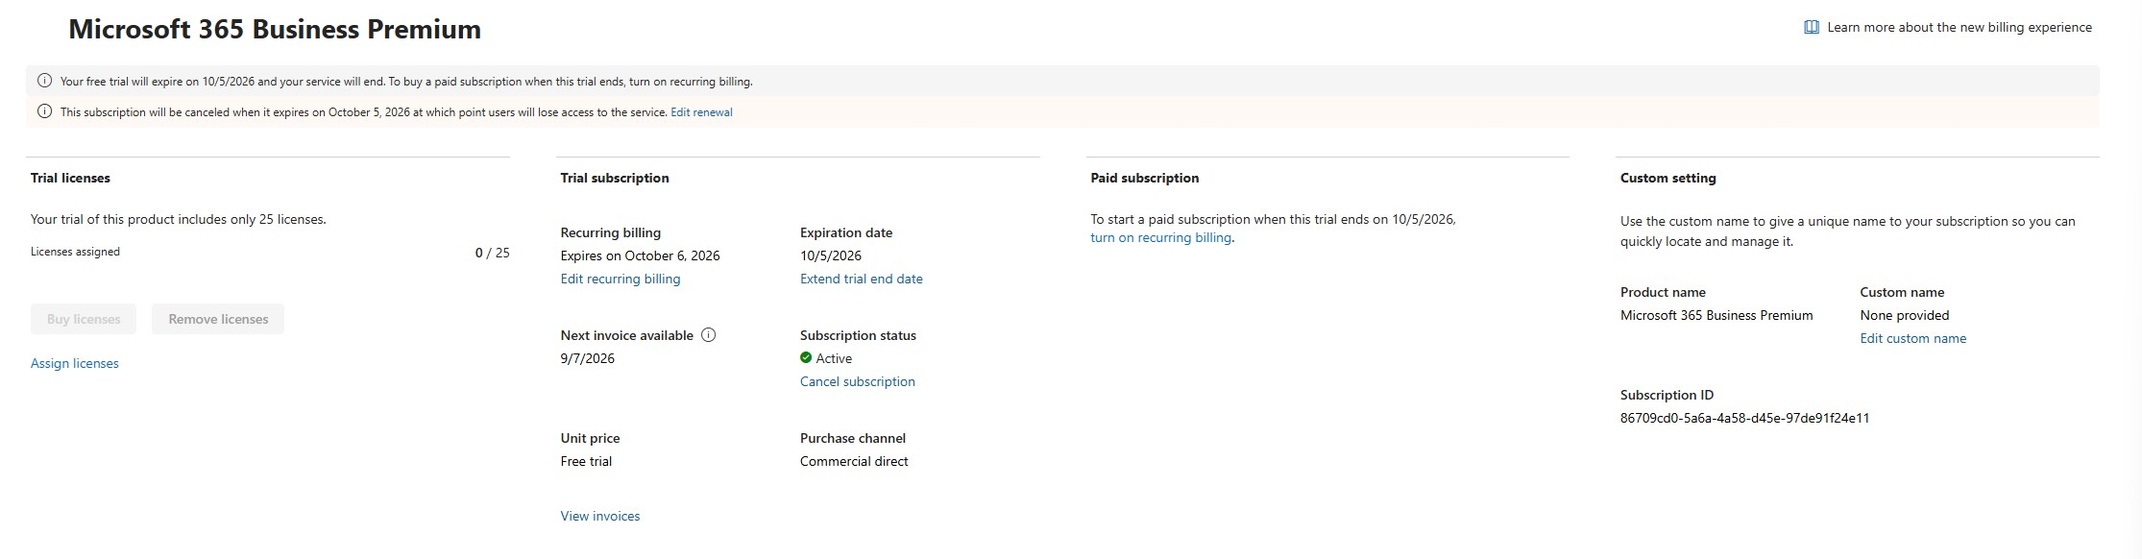
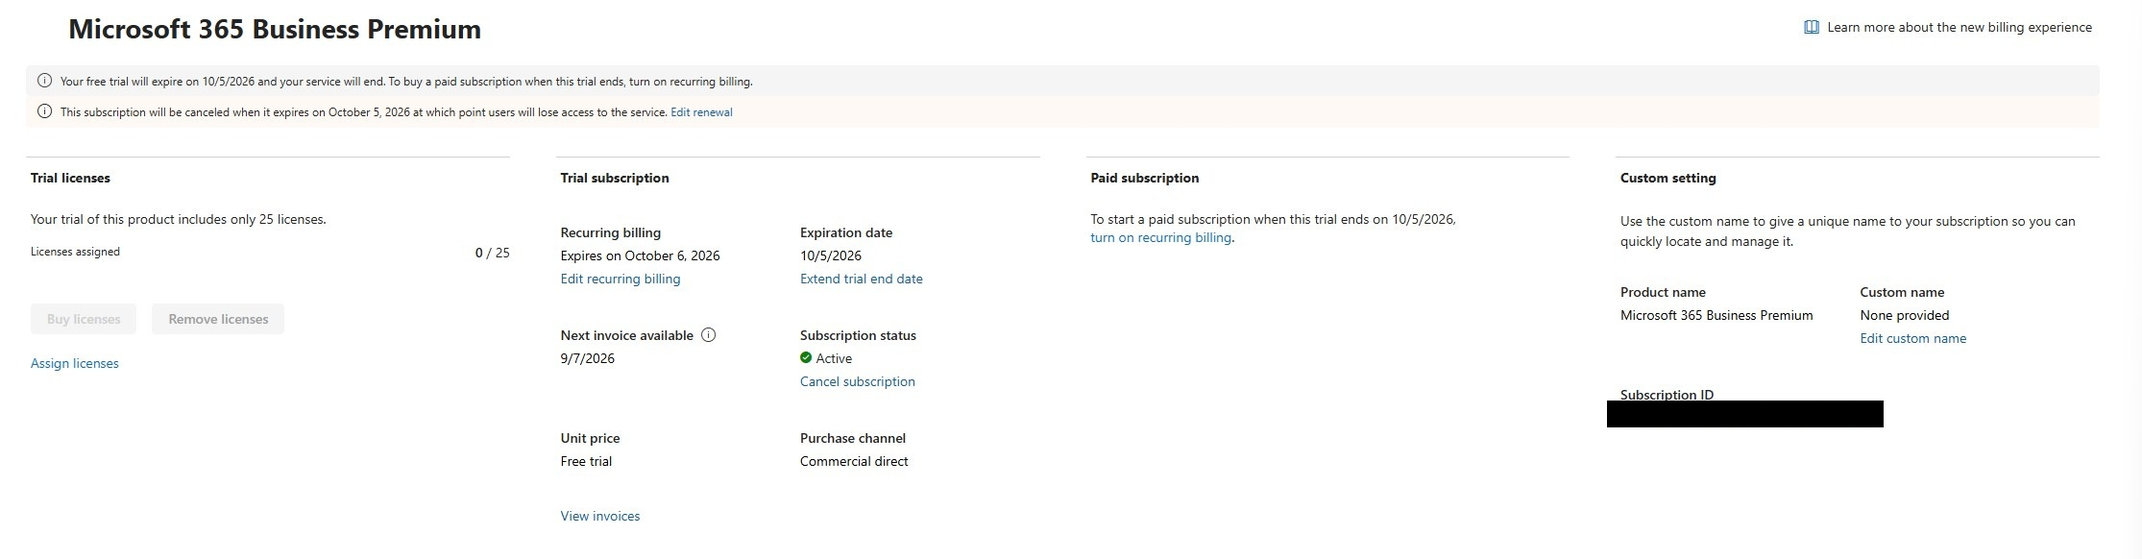
docs(cloud-03): document Step Twelve, and apply the identifier redaction policy consistently across Lab 03

Changed region(s): [[0.7426, 0.7113, 0.8973, 0.7732]]

diff --git a/docs/cloud-and-hybrid-identity/03-entra-id-user-group-and-license-administration.md b/docs/cloud-and-hybrid-identity/03-entra-id-user-group-and-license-administration.md
@@ -997,23 +997,105 @@ From the 1:17:00 AM on-premises write to the 1:22:01 AM cloud-side export comple
 
 **Restoration, confirmed rather than assumed.** `mjohnson` ended this step a member of exactly `Domain-Users-Standard` and `IT-Admins` again (the `All Company` test membership removed), `Account enabled: Yes`, and UPN back at `mjohnson@brindeck.com`; her Job title stayed set to `IT Support Specialist` as deliberate content. `cloudonly-demo01` had its test Job title cleared back to blank, and a fresh read confirmed the hard constraint: Groups blade reading "Not a member of any groups" and Assigned roles reading "No directory roles assigned.", license-only exactly as it started, with `memberOf` empty as required.
 
-### Step Twelve: Validate the environment is otherwise unchanged, settle the SSO key, and record the finished state
+### Step Twelve: Validated the environment is otherwise unchanged, settled the SSO key, and recorded the finished state
 
-Confirm that a lab conducted almost entirely in two web portals left the on-premises environment exactly as it found it, and record the state Lab 04 starts from.
+Confirmed that a lab conducted almost entirely in two web portals left the on-premises environment exactly as it found it, and recorded the state Lab 04 starts from.
 
-**On-premises and synchronization.** `Test-ComputerSecureChannel` from WIN11-CLIENT01, a Group Policy result confirming `IT-Admin-Environment` still applies, `sssd` active on Ubuntu Server with a Kerberos ticket issued for a domain user. On `SYNC01`: the Entra Connect version and source anchor unchanged, and `Get-ADSyncScheduler` read before running anything capable of forcing a cycle, so the scheduler is confirmed rather than assumed, which is the discipline Lab 02 Step Nine established after finding `SyncCycleEnabled` had been `False` since installation.
+**Drift check, run before anything else.** `mjohnson`'s Overview, Job Information, and Groups tabs matched Step Eleven's Restoration paragraph exactly: UPN back at `mjohnson@brindeck.com`, `Account enabled: Yes`, Job title `IT Support Specialist`, and membership in exactly `Domain-Users-Standard` and `IT-Admins`.
 
-**Wazuh, with the known caveat applied rather than repeated.** `Get-LabWazuhAgentStatus.ps1`'s default `-AgentName` list is `DC01`, `WIN11-CLIENT01`, and `UBUNTU-SERVER`, written during Automation Lab 05 before `SYNC01` existed. Running `Invoke-LabHealthReport.ps1` unmodified therefore returns `WazuhAgentStatus: Healthy` without having checked the one host this track's synchronization depends on, exactly as it did in Lab 02. Run the health report for the overall picture, then call `Get-LabWazuhAgentStatus -AgentName DC01,WIN11-CLIENT01,UBUNTU-SERVER,SYNC01` explicitly, and record both results together with the reason they differ. A green result that covered a real gap is precisely the failure shape Linux Lab 06's revision documented, and reporting the unmodified `Healthy` on its own would repeat a defect this repository has already identified twice.
+<p align="center">
+  <img src="../../images/cloud-and-hybrid-identity/03-entra-id-user-group-and-license-administration/44-mjohnson-groups-membership-restoration-confirmed.jpg" alt="44-mjohnson-groups-membership-restoration-confirmed" width="700">
+</p>
 
-**Automation library.** `Invoke-Pester -Path C:\Scripts -Output Detailed`, expected at 174 tests, 0 failed, unchanged since no script is touched by this lab.
+<p align="center">
+  <em>mjohnson's Groups blade: exactly Domain-Users-Standard and IT-Admins, both group object IDs masked.</em>
+</p>
 
-**The `AZUREADSSOACC` key.** Step One already read the account's state and recorded how long it had been since Lab 02's roll. Lab 02 rolled the key on 2026-08-31, during its Step Eight-A (the same timestamp Step One read directly from `PasswordLastSet`), and Microsoft's Seamless SSO FAQ recommendation of at least every thirty days puts that threshold at 2026-09-30. (WIN11-CLIENT01 displays `PasswordLastSet` in its local Eastern time zone; the same moment in UTC is 2026-09-01 00:07, which is why the interval also reads as 2026-09-01 to 2026-10-01 on a UTC clock; one rollover, two clocks, not a discrepancy.) A roll performed in this lab falls well short of either date, so it demonstrates the procedure rather than tests the recommendation the threshold represents. Re-read the account's state now, so the elapsed time spans the lab rather than sitting at its start, then take the decision and record it either way: roll the key with `Update-AzureADSSOForest` on `SYNC01`, observing the two documented traps and expecting the authentication context to fight the same browser configuration Lab 02 recorded, or record the deliberate decision not to roll it and the reasoning. Whichever happens, state the conclusion research pointed to and the lab confirmed: whether thirty days is an expiry or a recommendation, and therefore whether this is an operational deadline the environment has to meet or a hygiene interval it should aim at, while 2026-09-30 (2026-10-01 in UTC) remains the date a later lab actually gets to watch the interval elapse and settle the question empirically. That closes the Lab 02 carry-forward item rather than restating it, and it tells Lab 06 whether it is automating a deadline or a good habit.
+`cloudonly-demo01` matched too: zero group memberships, zero assigned roles, one assigned license (SPB), Job title cleared back to blank.
 
-**Finished state.** Reconcile both directories object by object against the Step One baseline, accounting for every difference. Three categories of change are expected and must each be accounted for rather than netted away: the cloud-only groups created in Step Six and the role-assignable group created in Step Seven, which persist; the `department` values populated on the synchronized users in Step Six (`akim`, `jdoe`, `testuser01`, and `tsync01` at `IT`; `mjohnson` at `Sales`; `jsmith` at `IT`, changed from `Sales` mid-step) and the `title` value populated on `mjohnson` in Step Eleven, the only two attribute changes this lab makes on-premises; and `deltest01`, created and permanently destroyed in Step Nine, which nets to zero on both sides exactly as Step Nine already confirmed: six users on-premises and ten in the tenant, matching the Step One baseline with no residual discrepancy. Getting there cost two distinct Entra object GUIDs along the way, not a persistent count, the direct consequence of recreating a synchronized account with the Recycle Bin off, a finding Step Nine already made and this step does not need to re-derive. Record the finished licensing state: which subscriptions are active, their billing state, the trial's expiry date, how many licenses are assigned and to whom, and by which model each was assigned. Record the Business Basic trial as resolved, lapsing 2026-09-22, so the track's dated item closes here.
+<p align="center">
+  <img src="../../images/cloud-and-hybrid-identity/03-entra-id-user-group-and-license-administration/45-cloudonly-demo01-overview-license-only-restoration-confirmed.jpg" alt="45-cloudonly-demo01-overview-license-only-restoration-confirmed" width="700">
+</p>
 
-The reconciliation must also account for what the Entra Overview's user count cannot show: three objects sitting in Deleted users, invisible to that count entirely. Record them by name, not as a tally: `nolocation-demo01`, soft-deleted 2026-09-07 by Step Eight with its group-inherited licenses confirmed still attached; and `duptest01` and `duptest02`, soft-deleted by Lab 02 and still present, their thirty-day windows expiring around 2026-10-02. A reconciliation that reads only the active user count and calls it a match is the same shape of error Step Nine found in Lab 02's own reconciliation: complete against one view, silent about another. Take an actual decision on `duptest01` and `duptest02` rather than defaulting past them: either purge them permanently, which would make Lab 02's "left no residue" claim true at last, or leave all three objects for Labs 04 and 05 to inherit. State which and why.
+<p align="center">
+  <em>cloudonly-demo01's Overview: Group memberships 0, Applications 0, Assigned roles 0, Assigned licenses 1, object ID masked.</em>
+</p>
 
-The same blind spot applies on the groups side. `Testgroup` sits in Deleted groups throughout this lab, soft-deleted 9/6/2026 5:08:17 PM with a permanent deletion date of 10/6/2026 5:08:17 PM, predating this lab entirely and untouched by it. Part B names it twice, as what Deleted groups returns to holding after both the restore and the final permanent-delete, but no step in this lab accounts for what it actually is or takes a decision on it. Step Nine's standard applies here exactly as it does to `duptest01` and `duptest02`: a reconciliation complete against one view and silent about another is the error this lab is built to avoid repeating. Take an actual decision on `Testgroup` the same way: either restore it, purge it permanently, or leave it for Labs 04 and 05 to inherit alongside the other three objects, and state which and why.
+A fresh `Get-MgSubscribedSku` read reconfirmed Part C's figures unchanged: SPB (Business Premium) at 6 consumed units and Microsoft 365 Business Basic (no Teams) at 1, both `Enabled`, and the Business Premium product page still read 7 of 25 assigned. No drift on either front, so this step proceeded from Step Eleven's and Step Ten's own baselines rather than a re-derived one.
+
+**On-premises and synchronization.** `Test-ComputerSecureChannel` from WIN11-CLIENT01 returned `True`. A first pass at the Group Policy result, `gpresult /r /scope:computer`, showed only `Workstation-Security-Baseline` and `Default Domain Policy`, no `IT-Admin-Environment` and briefly read as drift. It was an instrument gotcha instead: `IT-Admin-Environment` is a User Configuration policy security-filtered to `IT-Admins` membership, so a computer-scoped result can never show it regardless of whether it applies. A full `gpresult /r` for `CORP\labadmin`, a member of `IT-Admins` sitting in `OU=IT`, confirmed it correctly under User Settings.
+
+`sssd` was `active (running)` on Ubuntu Server, but the cached `klist` ticket was seven days expired, `testuser01@CORP.HOME.ARPA` valid `09/03/2026 13:15:55` to `09/03/2026 23:15:55`, left over from the day the service last started rather than a currently valid ticket. A fresh `kinit testuser01@CORP.HOME.ARPA` produced a ticket correctly bracketing the current time. Both this stale ticket and a nine-second `sssd_be` offline/online pair logged at the moment of testing traced to the same cause: the VM had been suspended between lab sessions and had only just been resumed for this step, not a genuine connectivity fault.
+
+`SYNC01` had been suspended the same way, and it surfaced this step's most substantial finding. `Get-ADSyncScheduler` read `SyncCycleEnabled: True` and `SchedulerSuspended: False`, but `NextSyncCycleStartTimeInUTC` at `9/9/2026 3:31:00 PM`, two days stale, and the Synchronization Service Manager's Operations tab confirmed no cycle had actually run since then either, 1,374 runs total, all `success`. The `ADSync` service itself was `Running`, and the Windows Application event log showed it actively acquiring MSAL tokens against `AdminWebService` moments before the check, alive but evidently not re-arming its own scheduler after the suspend. No Task Scheduler entry matched `ADSync` or `Azure AD Sync` (only an unrelated `TouchpadSyncDataAvailable` task matched the name filter), confirming the scheduler runs as an in-process timer inside the `ADSync` service rather than as an external scheduled task. `Restart-Service ADSync` did not correct it: `Get-ADSyncScheduler` still read `9/9/2026 3:31:00 PM` a full three minutes later. A full VM restart did: the next read gave `NextSyncCycleStartTimeInUTC: 9/11/2026 11:23:27 PM`, roughly the correct half hour out, nothing suspended. No cycle was ever forced manually at any point in this sequence, consistent with the discipline Lab 02 Step Nine established around this exact cmdlet. Nothing was actually missed by the roughly two-day gap: no lab work ran against either directory while `SYNC01` sat suspended, so there was no on-premises change waiting to synchronize when the scheduler finally caught up. This is recorded as a carry-forward item for this track's close-out to propagate into the `README`: any future session that resumes a suspended `SYNC01` should expect the identical stale scheduler, and know in advance that a service restart will not correct it where a full VM restart will.
+
+<p align="center">
+  <img src="../../images/cloud-and-hybrid-identity/03-entra-id-user-group-and-license-administration/46-adsyncscheduler-next-cycle-corrected-after-vm-restart.jpg" alt="46-adsyncscheduler-next-cycle-corrected-after-vm-restart" width="700">
+</p>
+
+<p align="center">
+  <em>Get-ADSyncScheduler after the SYNC01 VM restart: NextSyncCycleStartTimeInUTC recalculated to 9/11/2026 11:23:27 PM, SyncCycleInProgress False, nothing suspended.</em>
+</p>
+
+The Entra Connect version and source anchor were both unchanged: `Microsoft Entra Connect Sync 2.6.84.0` (found under that exact product name in the uninstall list, once `Microsoft Azure AD Connect Agent Updater`, a different component with its own version number, was ruled out), and the wizard's "View current configuration" page still read `mS-DS-ConsistencyGuid` as source anchor, the attribute this track chose specifically because it survives an on-premises object being deleted and recreated, unlike `objectGUID`, exactly the property Step Nine's `deltest01` finding already leaned on.
+
+**Wazuh, the gap confirmed rather than repeated.** `Invoke-LabHealthReport.ps1`'s `WazuhAgentStatus` check queried only `DC01`, `WIN11-CLIENT01`, and `UBUNTU-SERVER`, its hardcoded default from Automation Lab 05, all `active`, and returned `Overall: Healthy` without ever having asked about `SYNC01`. The explicit call, `Get-LabWazuhAgentStatus -AgentName DC01,WIN11-CLIENT01,UBUNTU-SERVER,SYNC01`, showed all four `active`/`Healthy`, `SYNC01` included. The two results differ because the default script structurally excludes the one host this track's synchronization depends on, not because anything was actually wrong with `SYNC01` this time; a green `Overall: Healthy` from the unmodified script would have been correct by coincidence, not because the check covered what mattered.
+
+<p align="center">
+  <img src="../../images/cloud-and-hybrid-identity/03-entra-id-user-group-and-license-administration/47-get-labwazuhagentstatus-explicit-four-agents-including-sync01.jpg" alt="47-get-labwazuhagentstatus-explicit-four-agents-including-sync01" width="700">
+</p>
+
+<p align="center">
+  <em>Get-LabWazuhAgentStatus called explicitly with SYNC01 added to the default agent list: all four hosts active and Healthy.</em>
+</p>
+
+**Automation library.** `Invoke-Pester -Path C:\Scripts -Output Detailed` completed in 39.37 seconds: 174 tests passed, 0 failed, 0 skipped, 0 not run, unchanged, since no script is touched by this lab.
+
+<p align="center">
+  <img src="../../images/cloud-and-hybrid-identity/03-entra-id-user-group-and-license-administration/48-invoke-pester-174-passed-0-failed.jpg" alt="48-invoke-pester-174-passed-0-failed" width="700">
+</p>
+
+<p align="center">
+  <em>Invoke-Pester summary: 174 tests passed, 0 failed, 0 skipped, 0 not run.</em>
+</p>
+
+**The `AZUREADSSOACC` key.** A fresh `Get-ADComputer AZUREADSSOACC -Properties PasswordLastSet` read on `SYNC01` returned `8/31/2026 8:07:44 PM`, unchanged from Step One: eleven days elapsed as of this step, well short of the thirty the interval names.
+
+<p align="center">
+  <img src="../../images/cloud-and-hybrid-identity/03-entra-id-user-group-and-license-administration/49-azureadssoacc-passwordlastset-fresh-read.jpg" alt="49-azureadssoacc-passwordlastset-fresh-read" width="700">
+</p>
+
+<p align="center">
+  <em>Get-ADComputer AZUREADSSOACC -Properties PasswordLastSet, re-read on SYNC01 so the elapsed interval spans this step: 8/31/2026 8:07:44 PM, unchanged from Step One.</em>
+</p>
+
+Microsoft Learn's current wording, checked directly rather than assumed from the plan, since Lab 02 already found this documentation set does not always match its own cmdlets, is consistent across its Quickstart, Technical Deep Dive, and FAQ articles: "we highly recommend" rolling the key "at least every 30 days." None of them describe the key as expiring, and Defender for Identity's own automated security assessment for this account does not flag it until the password is over ninety days old, not thirty. That settles the question this lab was built to answer: thirty days is a hygiene interval, not an operational deadline the key stops functioning at. The decision taken was not to roll the key in this step. Eleven days is well short of thirty, rolling now would only repeat the demonstration Lab 02's Step Eight-A already gave, and it would erase the one chance this track has to watch a full thirty-day interval actually elapse on 2026-09-30 (2026-10-01 in UTC), which a later lab is meant to observe empirically rather than take on faith.
+
+**Finished state.** Reconciled both directories against the Step One baseline. The Entra Overview read 10 users, unchanged, and 9 groups, which is unchanged from Step Ten's own close rather than untouched by this lab overall: against Step One's baseline of 5 (the four groups synchronized from `OU=Groups` plus `All Company`), Step Six added `Finance`, `Company Announcements`, and the dynamic membership group `IT-Department`, and Step Seven added the role-assignable group `Groups-Administrators`, all four of which persist unchanged into this step. On-premises, `(Get-ADUser -Filter *).Count` returned 12, not a discrepancy once decomposed: `akim`, `jdoe`, `jsmith`, `mjohnson`, `tsync01`, and `testuser01` in `OU=User Accounts` are the six synchronized users the baseline has always tracked; the other six, `Administrator`, `Guest`, and `krbtgt` (built-in), `labadmin` (the `IT-Admins` admin account in `OU=IT`), `svc-entraconnect` (the Entra Connect service account in its own `OU=Service Accounts`), and `Test NoSync` (`tnosync01`, deliberately placed in `OU=IT` as this track's own fixture proving synchronization's OU scoping), were never part of that six-user count. `deltest01`, created and permanently destroyed in Step Nine, nets to zero on both sides exactly as Step Nine already confirmed, at the cost of two distinct Entra object GUIDs along the way rather than a persistent count, so it is accounted for here rather than netted silently away. The two attribute changes this lab makes on-premises, `department` from Step Six and `mjohnson`'s `title` from Step Eleven, both persist as deliberate content per the precedent those steps already set.
+
+Licensing, read fresh rather than carried forward: Business Premium (SPB) remained at 7 assignment targets against `Get-MgSubscribedSku`'s 6 consumed seats, 25 enabled, `Finance`'s empty membership accounting for the one-target gap exactly as Part C established. Business Basic (no Teams) showed the identical pattern on inspection, and this is not a re-read of Part C but a second, independent instance of its finding on a different SKU: the product page read 2 of 25 assigned against `Get-MgSubscribedSku`'s 1 consumed; the export identified the two assignment targets as `Finance` (the group, still empty) and `Adam Ramzi` (a user), so `Finance` again contributes zero of its own consumed seats and the arithmetic closes the same way Part C's did for SPB.
+
+<p align="center">
+  <img src="../../images/cloud-and-hybrid-identity/03-entra-id-user-group-and-license-administration/50-licensing-reconciliation-consumedunits-and-business-basic-targets.jpg" alt="50-licensing-reconciliation-consumedunits-and-business-basic-targets" width="700">
+</p>
+
+<p align="center">
+  <em>Get-MgSubscribedSku narrowed to SkuPartNumber, ConsumedUnits, and CapabilityStatus, paired with the Business Basic (no Teams) product page: 2 of 25 assigned against 1 consumed, Finance and Adam Ramzi the two assignment targets.</em>
+</p>
+
+The Business Basic trial's expiration read `9/22/2026`, resolving the track's dated item at last. Microsoft Entra ID P1 remained active and paid, unrelated to either trial.
+
+The reconciliation also accounted for the four objects invisible to the Entra Overview's counts, each decided rather than defaulted past. `nolocation-demo01` (soft-deleted 9/7/2026 4:01 PM, permanent deletion 10/7/2026 4:01 PM) was left for Labs 04 and 05 to inherit: it is the concrete object behind Part C's Finding Two, a soft-deleted user that keeps its `assignedLicenses` property while consuming no seat, and purging it now would destroy the artifact this lab worked to establish for no benefit. `duptest01` and `duptest02` (both soft-deleted 9/2/2026 9:41 PM, permanent deletion 10/2/2026 9:41 PM), which Step Ten already confirmed hold no licenses, were purged permanently: Lab 02's own record claims it "left no residue," which was false while these two persisted, and purging them makes that claim true rather than handing the same stale discrepancy to a later lab to rediscover. `Testgroup` (soft-deleted 9/6/2026 5:08:17 PM, permanent deletion 10/6/2026 5:08:17 PM), which predates this lab entirely and was never touched or explained by any step in it, was left for Labs 04 and 05 to inherit: this session had no basis to restore it, since its original composition and purpose are unknown, and no basis to purge it either, since that would destroy an artifact of unknown provenance; leaving it preserves the option for whichever later lab has the context to decide.
+
+<p align="center">
+  <img src="../../images/cloud-and-hybrid-identity/03-entra-id-user-group-and-license-administration/51-deleted-users-after-permanent-purge-nolocation-demo01-remains.jpg" alt="51-deleted-users-after-permanent-purge-nolocation-demo01-remains" width="700">
+</p>
+
+<p align="center">
+  <em>Deleted users after the permanent purge of duptest01 and duptest02: only nolocation-demo01 remains, both identifying values masked.</em>
+</p>
+
+Deleted groups still held exactly `Testgroup`, unchanged and untouched, closing the reconciliation.
 
 ---
 
@@ -1043,6 +1125,7 @@ Planned validation, to be replaced with observed results as the lab is implement
 - **`Get-MgGroup -Property AssignedLicenses` and `Get-MgGroupMember` returned blank on real, populated groups, the same shape Nine-A already found on a deleted user.** Once `Finance` and `Company Announcements` were repaired and re-licensed, the typed cmdlets `$fin.AssignedLicenses` and `Get-MgGroupMember -GroupId $fin.Id` (and the same pair against `Company Announcements`) returned empty results repeatedly, across a nine-minute wait, a `Format-List` check that confirmed both variables held real non-null objects, and a full `Disconnect-MgGraph`/reconnect with `Group.Read.All` and `GroupMember.Read.All` added explicitly. None of it changed the result. Switching to a raw `Invoke-MgGraphRequest` call against the same properties, the same fix Nine-A used against a soft-deleted user's `assignedLicenses`, returned real data immediately: `Company Announcements`'s membership call correctly showed `John Smith`, and the license read, while still `{}` for both groups, was confirmed by other means to be a genuine platform gap rather than a query defect (see Step Ten). The typed cmdlets' `-Property` parameter is not reaching the request the same way on a group as it already failed to on a deleted user, and a raw call is the reliable fallback either way.
 
 - **A blank-looking audit log initiator was a PowerShell truthiness bug, not a real gap in the log.** An early script projecting each audit event's initiator with `if ($_.InitiatedBy.App) { $_.InitiatedBy.App.DisplayName } else { $_.InitiatedBy.User.UserPrincipalName }` showed blank actors for events that Correlation IDs and timestamps confirmed were real. `$_.InitiatedBy.App` is a non-null object even when every field on it is null, so the condition evaluated true and the script read a null `DisplayName` off it instead of falling through to the populated `User` branch. Dumping the same event raw with `ConvertTo-Json -Depth 10` showed the actual initiator immediately, `CloudLicensingSystem` in every case that mattered here. The general lesson is to test a leaf field rather than a container object's truthiness, and to reach for a raw JSON dump the moment formatted output looks suspiciously uniform.
+- **Suspending the `SYNC01` VM leaves the Entra Connect scheduler's in-process timer stale, and a service restart does not fix it.** Step Twelve found `Get-ADSyncScheduler` reporting `SyncCycleEnabled: True` and `SchedulerSuspended: False` while `NextSyncCycleStartTimeInUTC` sat two days in the past; the Synchronization Service Manager's Operations tab confirmed no cycle had actually run in that window either. The `ADSync` service itself reported `Running` and was actively acquiring MSAL tokens against `AdminWebService`, so the service was alive, not crashed. No Task Scheduler entry exists for it under any name resembling `ADSync` or `Azure AD Sync`, which is what establishes that the scheduler runs as an in-process timer inside the service rather than as an externally triggered task, and that is the detail that explains why `Restart-Service ADSync` alone is insufficient: restarting the service does not reset the timer state a VM suspend corrupted, only a full VM restart does. Confirmed by testing both in sequence rather than assuming the fix from the symptom.
 
 ---
 

diff --git a/docs/cloud-and-hybrid-identity/README.md b/docs/cloud-and-hybrid-identity/README.md
@@ -96,7 +96,7 @@ Scripts and exported configuration artifacts produced by this track are maintain
 infrastructure/cloud-and-hybrid-identity/
 ```
 
-Tenant configuration is performed through administrative portals and is therefore documented by this repository rather than defined by it, which is the reverse of the relationship the compose files and script library have with the Linux and automation tracks. Exported configuration is committed only where it carries no credentials, tokens, or user data. Identifiers are handled by whether they are already public rather than by category. The tenant ID and the verified domain names appear in full, because anyone holding the domain can resolve the tenant ID from Microsoft's unauthenticated OpenID Connect discovery endpoint and publishing it reveals nothing the verified domain does not. Directory object IDs are masked in screenshots, billing and subscription identifiers are omitted, and the emergency access account's user principal name is redacted as `[redacted]@brindeck.onmicrosoft.com` wherever it would otherwise appear, since from Lab 05 onward it is the one identity the tenant's conditional access policies deliberately do not constrain.
+Tenant configuration is performed through administrative portals and is therefore documented by this repository rather than defined by it, which is the reverse of the relationship the compose files and script library have with the Linux and automation tracks. Exported configuration is committed only where it carries no credentials, tokens, or user data. Identifiers are handled by whether they are already public rather than by category. The tenant ID and the verified domain names appear in full, because anyone holding the domain can resolve the tenant ID from Microsoft's unauthenticated OpenID Connect discovery endpoint and publishing it reveals nothing the verified domain does not. Directory object IDs are masked in screenshots. A masked directory object ID shows its first eight characters with the remainder blacked out, so that two different objects remain visibly different without the full identifier being disclosed. Billing and subscription identifiers are omitted, and the emergency access account's user principal name is redacted as `[redacted]@brindeck.onmicrosoft.com` wherever it would otherwise appear, since from Lab 05 onward it is the one identity the tenant's conditional access policies deliberately do not constrain.
 
 ---
 
